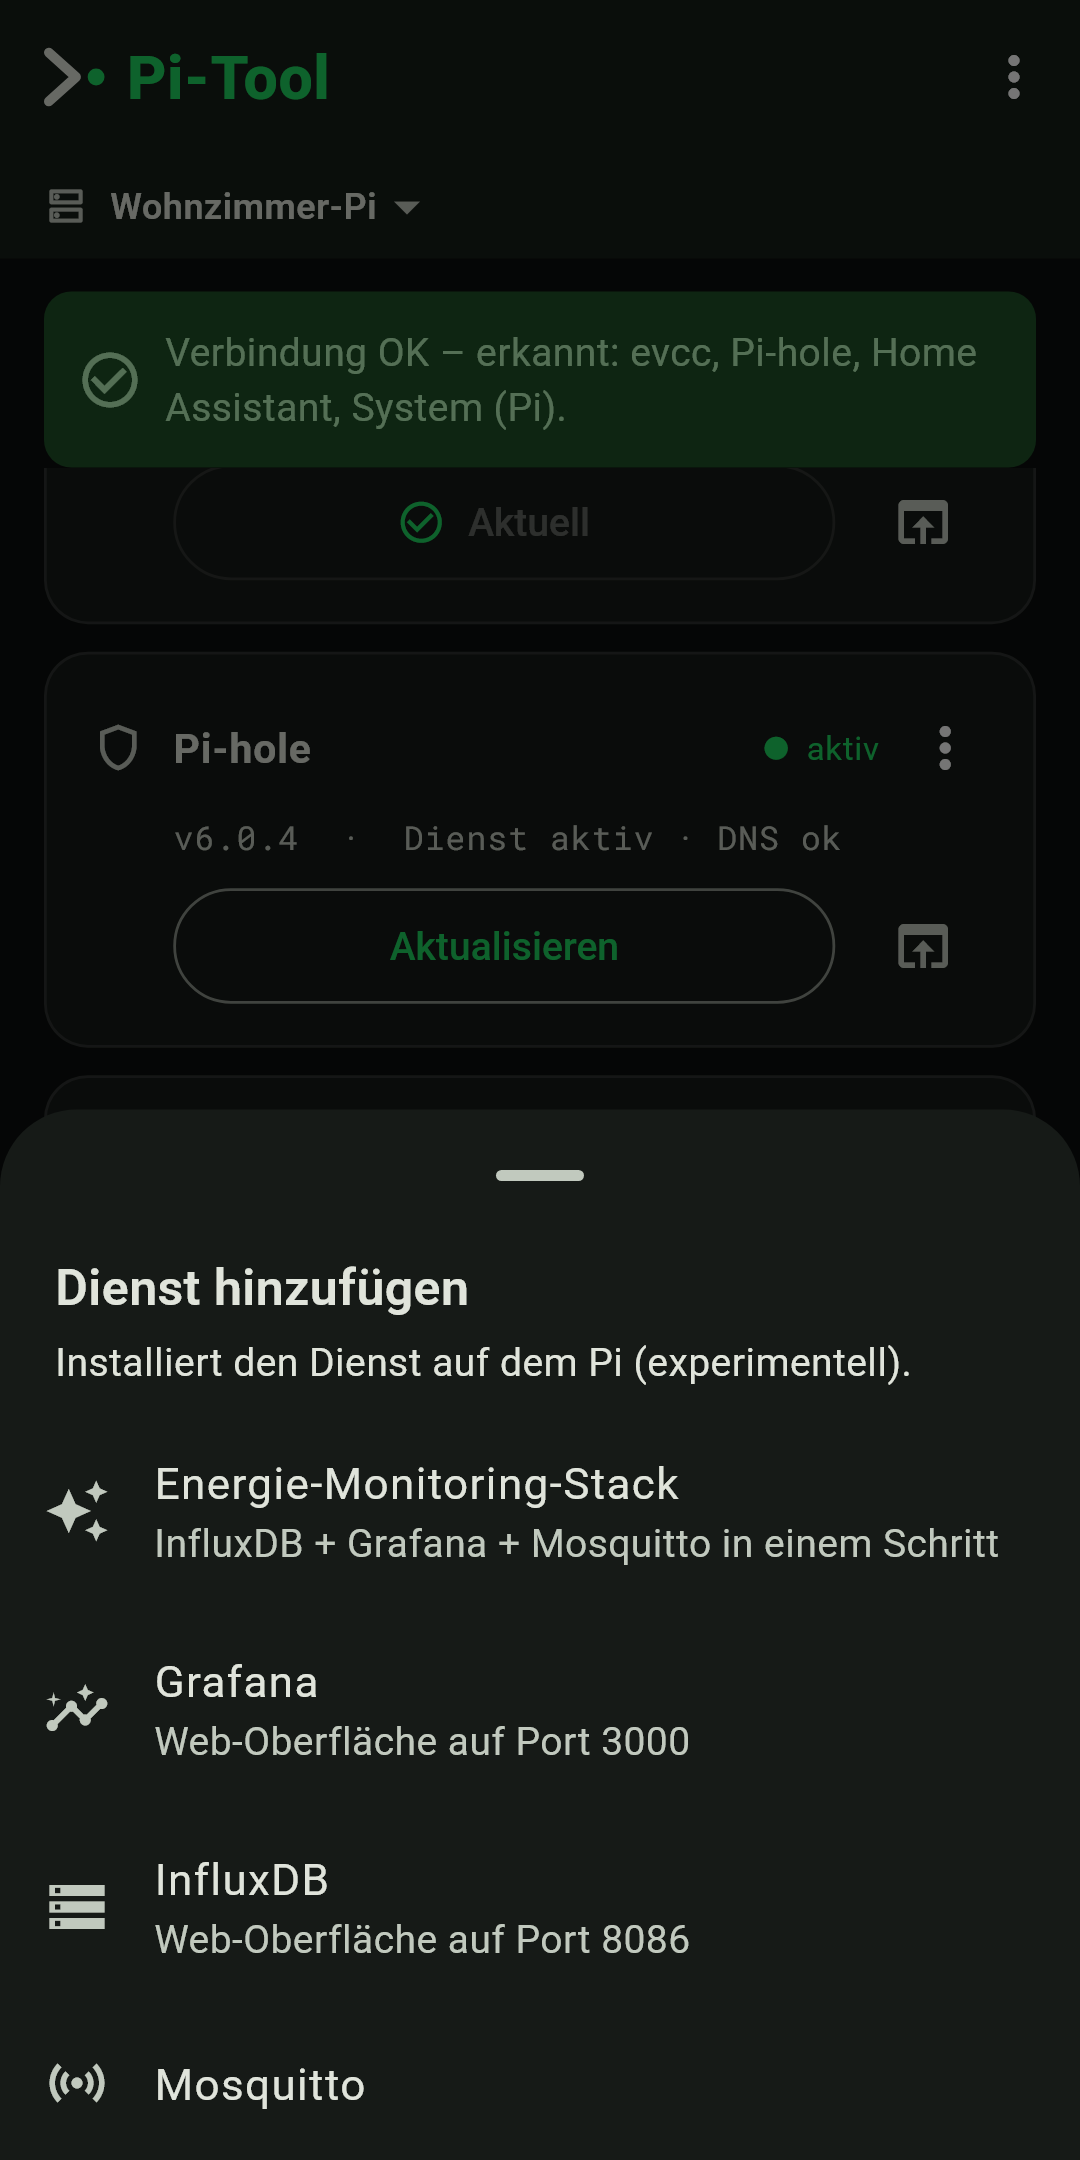
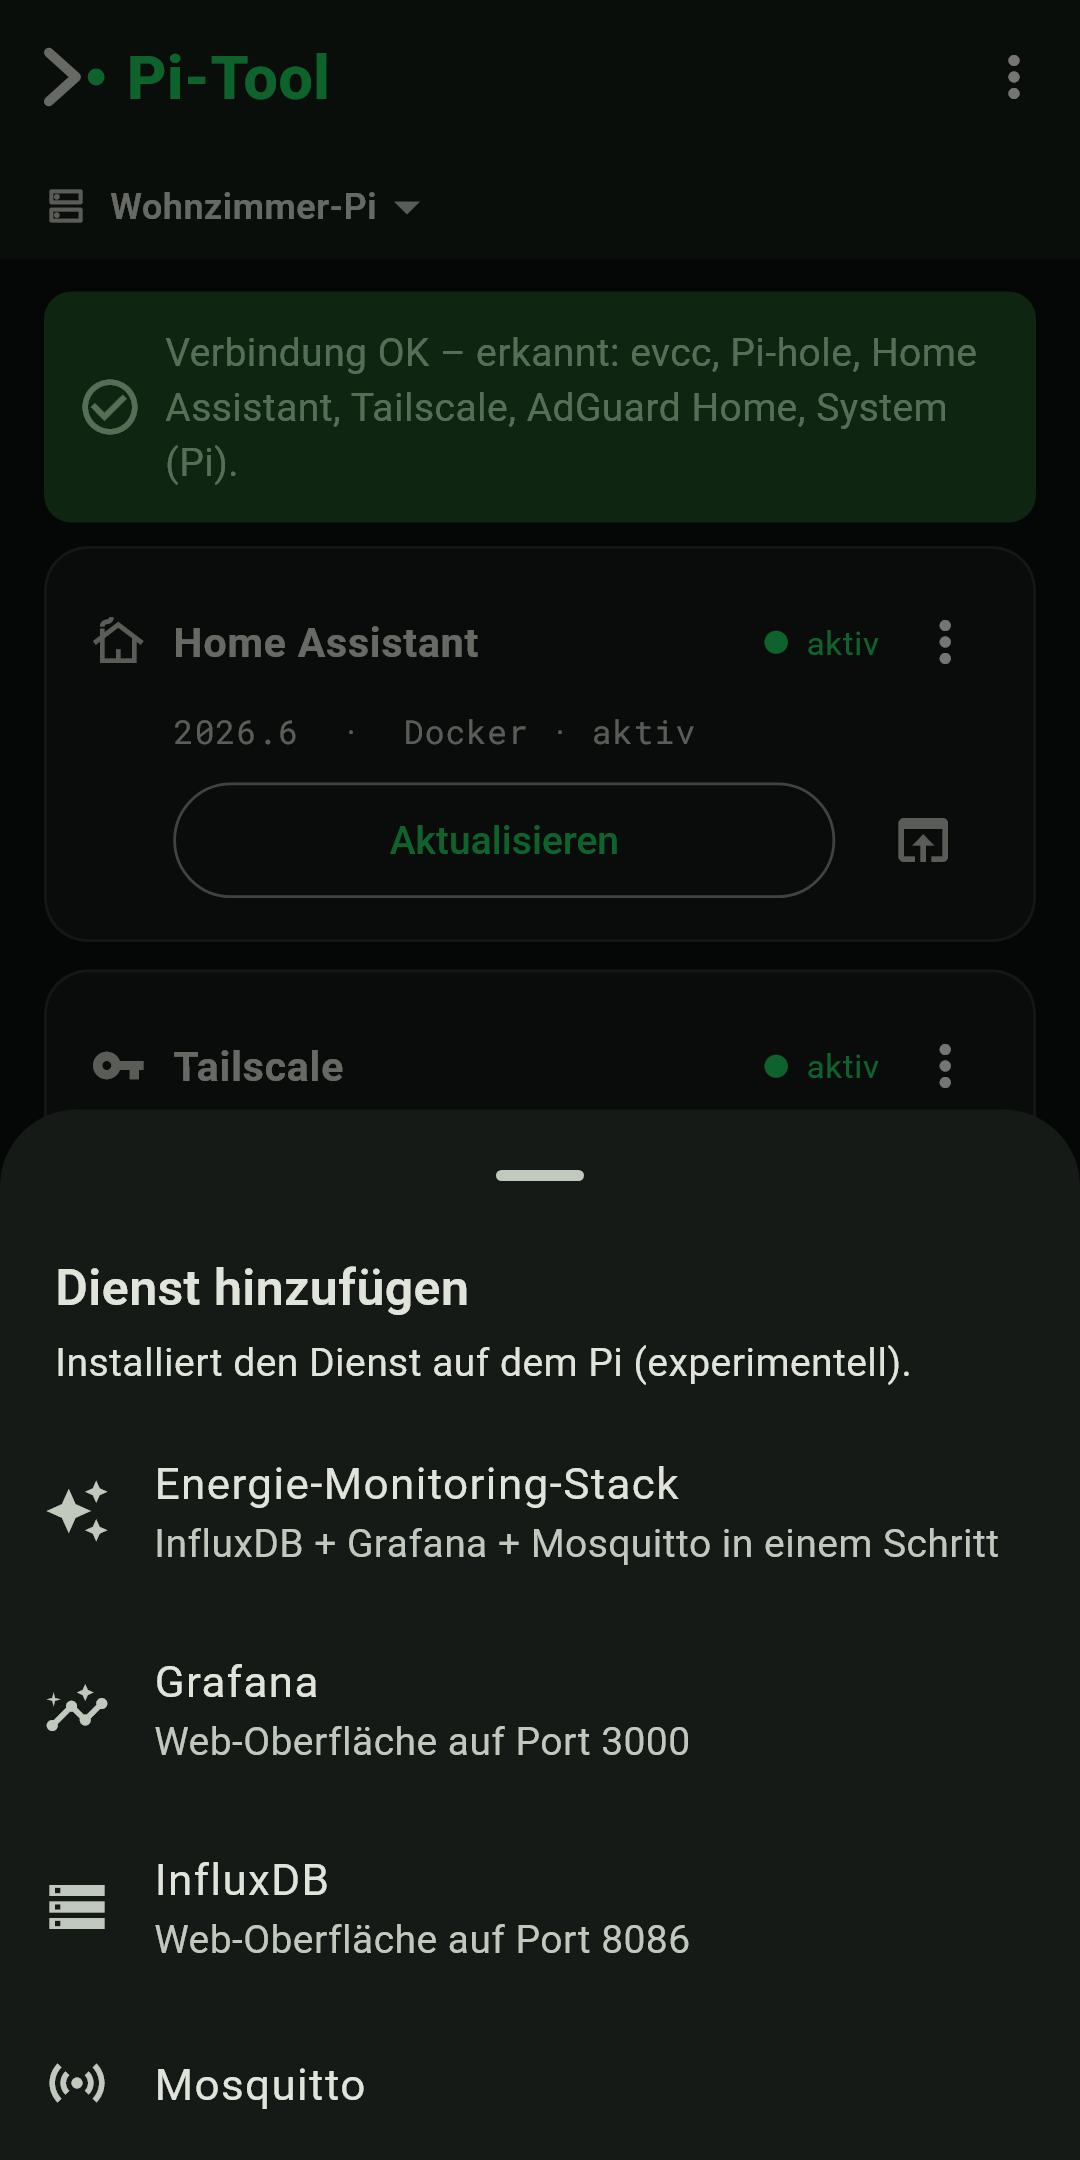
docs(store): refresh Play descriptions + screenshots to the v0.56 feature set
Store assets had drifted behind the app. Reviewed both and updated.

Descriptions (de + en full_description): added the features shipped since the
last copy — Pi shutdown, auto-detected AdGuard Home/Node-RED/Zigbee2MQTT,
Docker-container manage, disk-usage analyzer, security check, scheduled backups,
the one-tap Tailscale remote-access flow (+ "back to home IP"), and one-tap
SSH-key setup. Kept the trademark disclaimer + "inoffiziell" note. DE trimmed to
3967 chars (was 4260, over Play's 4000 limit); EN 3838.

Screenshots (regenerated via test/screenshots.dart, fake data, no emulator):
- Fixed the stale Automatik shot — it now shows all THREE tiles (the "Geplante
  Backups" tile added in v0.51 was missing).
- Cockpit hero now shows the v0.56 COLLAPSED credentials card + System health.
- Enriched the fake services so the cards show Tailscale (tailnet IP + Trennen)
  and AdGuard Home — demonstrates the breadth.
- Multi-Pi overview now varies the two Pis (one amber "updates", one green
  "up to date") so the traffic light reads clearly instead of two identical rows.
- Dropped the empty-looking terminal shot; final set = 5 (cockpit, service cards,
  add-service picker, automation, all-Pis overview), 1080x2160 (≤2:1), both locales.

Generator: _richServices gains Tailscale + AdGuard; a _healthyServices variant is
returned for the .51 host so the overview isn't monotone.

Docs: store/launch-kit.md checklist updated (screenshots + descriptions refreshed
[…]

diff --git a/test/screenshots.dart b/test/screenshots.dart
@@ -60,6 +60,20 @@ const _richServices = <ServiceStatus>[
       active: true,
       detail: 'Docker · aktiv'),
   ServiceStatus(
+      id: 'tailscale',
+      name: 'Tailscale',
+      installed: true,
+      version: '100.101.102.103',
+      active: true,
+      detail: 'verbunden · Fernzugriff'),
+  ServiceStatus(
+      id: 'adguard',
+      name: 'AdGuard Home',
+      installed: true,
+      version: 'v0.107.68',
+      active: true,
+      detail: 'Dienst aktiv'),
+  ServiceStatus(
       id: 'system',
       name: 'System (Pi)',
       installed: true,
@@ -69,6 +83,28 @@ const _richServices = <ServiceStatus>[
       updateAvailable: true,
       detail: '3 Updates verfügbar',
       health: '48 °C · 62 % frei · 1,4 GB RAM · Up 12 T'),
+];
+
+/// A second Pi that is fully up to date → shows GREEN in the "All Pis" overview,
+/// so the traffic light isn't monotone (the active Pi above has updates = amber).
+const _healthyServices = <ServiceStatus>[
+  ServiceStatus(
+      id: 'evcc',
+      name: 'evcc',
+      installed: true,
+      version: '0.310.0',
+      active: true,
+      updateKnown: true,
+      detail: 'apt · Dienst aktiv'),
+  ServiceStatus(
+      id: 'system',
+      name: 'System (Pi)',
+      installed: true,
+      version: 'Debian 12',
+      active: true,
+      updateKnown: true,
+      detail: 'aktuell',
+      health: '39 °C · 78 % frei · 0,9 GB RAM · Up 43 T'),
 ];
 
 class _ShotUpdater extends EvccUpdater {
@@ -83,6 +119,8 @@ class _ShotUpdater extends EvccUpdater {
     void Function()? onConnected,
   }) async {
     onConnected?.call();
+    // Keller-Pi (….51) is up to date; the active Wohnzimmer-Pi has updates.
+    if (config.host.endsWith('.51')) return _healthyServices;
     return _richServices;
   }
 }

diff --git a/store/launch-kit.md b/store/launch-kit.md
@@ -120,8 +120,15 @@ der Play-Launch ist voll intakt.
 - [ ] D-U-N-S-Nummer beantragen (kritischer Pfad, bis ~30 Tage)
 - [ ] Google-Play-Konto (KYTH-Org) + Identitätsprüfung (mit HRB 46313)
 - [x] öffentliche Kontakt-E-Mail festgelegt: support@kyth.systems
-- [x] Screenshots erstellt (2026-07-12) — 5 Stück, gerendert über Test-Fakes (kein echter
-      Pi), in `fastlane/…/{de-DE,en-US}/images/phoneScreenshots/1–5.png` (1080×2160, ≤2:1)
+- [x] Screenshots **aufgefrischt (2026-07-14)** — 5 Stück, gerendert über Test-Fakes (kein
+      echter Pi), in `fastlane/…/{de-DE,en-US}/images/phoneScreenshots/1–5.png` (1080×2160, ≤2:1):
+      1 Cockpit (eingeklappte Zugangsdaten-Karte v0.56 + System-Health + evcc), 2 Dienst-Karten
+      (Home Assistant + Tailscale + AdGuard), 3 „Dienst hinzufügen", 4 Automatik (3 Kacheln inkl.
+      Geplante Backups), 5 „Alle Pis"-Ampel (orange/grün). Generator: `test/screenshots.dart`.
+- [x] Voll-Beschreibungen (de/en) **auf v0.56-Funktionsstand gebracht (2026-07-14)**: u. a.
+      Pi herunterfahren, AdGuard/Node-RED/Zigbee2MQTT, Docker-Container, Speicherplatz analysieren,
+      Sicherheits-Check, geplante Backups, Tailscale-Fernzugriff, SSH-Key-Auto-Einrichtung.
+      DE 3967 / EN 3838 Zeichen (< 4000).
 
 **[DU] — in der Play Console**
 - [ ] Store-Eintrag füllen (Texte aus `fastlane/…` übernehmen oder via `fastlane supply`)
